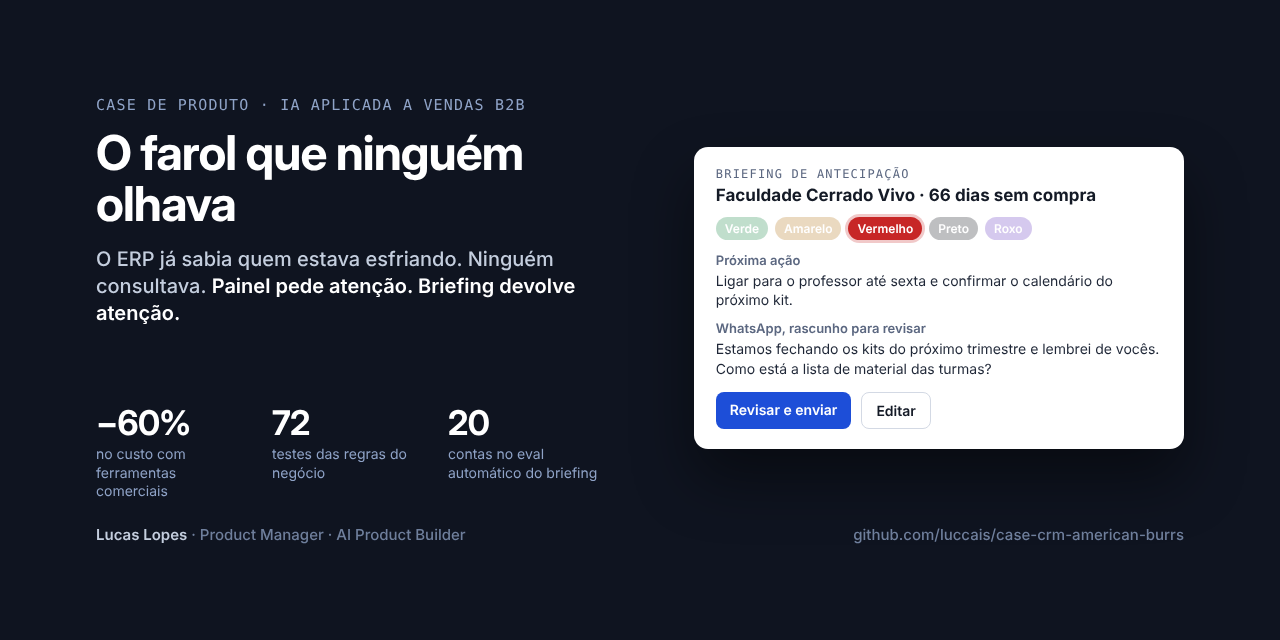
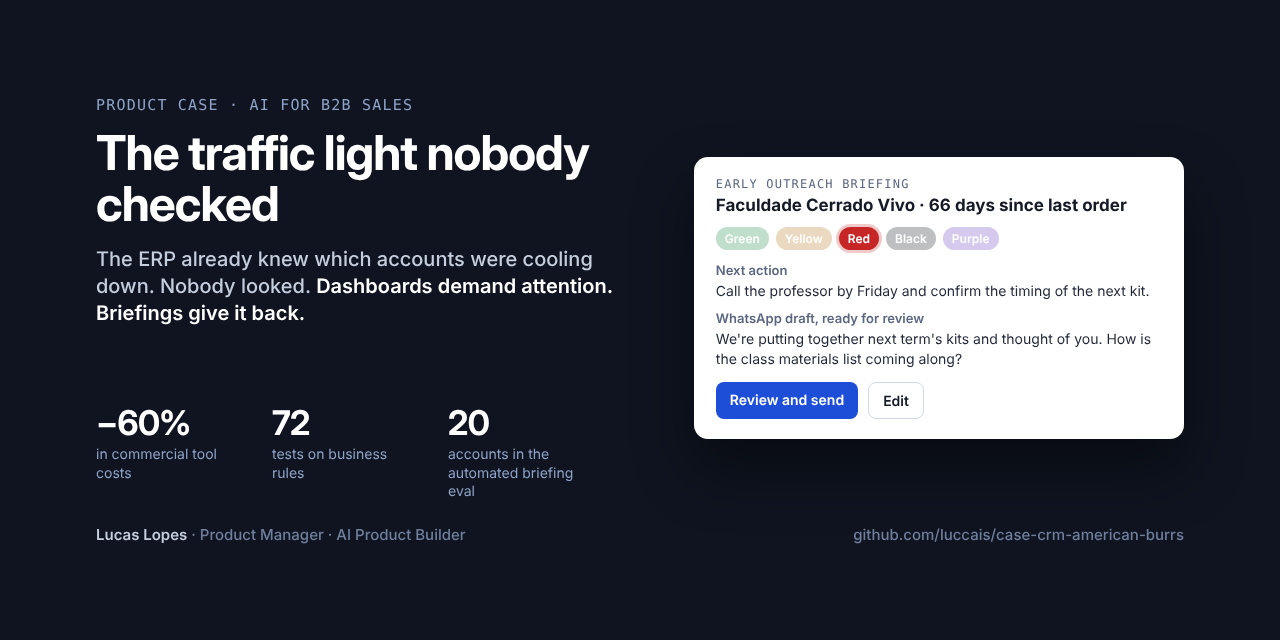
docs: capa em inglês para a prévia social
Claude-Session: https://claude.ai/code/session_013pWEh4TcHNrPo1i61WNHBM

diff --git a/docs/img/fonte/capa.html b/docs/img/fonte/capa.html
@@ -1,4 +1,4 @@
-<!doctype html><html><head><meta charset="utf-8"><style>
+<!doctype html><html lang="en"><head><meta charset="utf-8"><style>
 *{margin:0;padding:0;box-sizing:border-box}
 body{width:1280px;height:640px;font-family:Inter,sans-serif;background:#0f1420;color:#e8ecf3;overflow:hidden;position:relative}
 .wrap{position:absolute;inset:0;padding:96px 96px 140px;gap:44px;display:flex;gap:56px}
@@ -26,23 +26,23 @@ h1{font:700 48px/1.06 'Inter Display',Inter;letter-spacing:-.02em;margin-top:14p
 .foot b{color:#c4cede;font-weight:600}
 </style></head><body><div class="wrap">
 <div class="l">
-<div class="tag">Case de produto · IA aplicada a vendas B2B</div>
-<h1>O farol que ninguém olhava</h1>
-<div class="tese">O ERP já sabia quem estava esfriando. Ninguém consultava. <b>Painel pede atenção. Briefing devolve atenção.</b></div>
+<div class="tag">Product case · AI for B2B sales</div>
+<h1>The traffic light nobody checked</h1>
+<div class="tese">The ERP already knew which accounts were cooling down. Nobody looked. <b>Dashboards demand attention. Briefings give it back.</b></div>
 <div class="stats">
-<div><div class="n">−60%</div><div class="k">no custo com ferramentas comerciais</div></div>
-<div><div class="n">72</div><div class="k">testes das regras do negócio</div></div>
-<div><div class="n">20</div><div class="k">contas no eval automático do briefing</div></div>
+<div><div class="n">−60%</div><div class="k">in commercial tool costs</div></div>
+<div><div class="n">72</div><div class="k">tests on business rules</div></div>
+<div><div class="n">20</div><div class="k">accounts in the automated briefing eval</div></div>
 </div></div>
 <div class="r"><div class="card">
-<div class="ct">BRIEFING DE ANTECIPAÇÃO</div>
-<div class="cn">Faculdade Cerrado Vivo · 66 dias sem compra</div>
-<div class="row"><span class="p" style="background:#1f8a4c">Verde</span><span class="p" style="background:#b7791f">Amarelo</span><span class="p on" style="background:#c72626">Vermelho</span><span class="p" style="background:#1a1d24">Preto</span><span class="p" style="background:#6d3fc4">Roxo</span></div>
-<div class="lbl">Próxima ação</div>
-<div class="txt">Ligar para o professor até sexta e confirmar o calendário do próximo kit.</div>
-<div class="lbl">WhatsApp, rascunho para revisar</div>
-<div class="txt">Estamos fechando os kits do próximo trimestre e lembrei de vocês. Como está a lista de material das turmas?</div>
-<div class="bt"><span class="b1">Revisar e enviar</span><span class="b2">Editar</span></div>
+<div class="ct">EARLY OUTREACH BRIEFING</div>
+<div class="cn">Faculdade Cerrado Vivo · 66 days since last order</div>
+<div class="row"><span class="p" style="background:#1f8a4c">Green</span><span class="p" style="background:#b7791f">Yellow</span><span class="p on" style="background:#c72626">Red</span><span class="p" style="background:#1a1d24">Black</span><span class="p" style="background:#6d3fc4">Purple</span></div>
+<div class="lbl">Next action</div>
+<div class="txt">Call the professor by Friday and confirm the timing of the next kit.</div>
+<div class="lbl">WhatsApp draft, ready for review</div>
+<div class="txt">We're putting together next term's kits and thought of you. How is the class materials list coming along?</div>
+<div class="bt"><span class="b1">Review and send</span><span class="b2">Edit</span></div>
 </div></div></div>
 <div class="foot"><span><b>Lucas Lopes</b> · Product Manager · AI Product Builder</span><span>github.com/luccais/case-crm-american-burrs</span></div>
 </body></html>

diff --git a/README.md b/README.md
@@ -1,6 +1,6 @@
 # Farol de Clientes + CRM de Kits
 
-![O farol que ninguém olhava: case de produto de IA aplicada a vendas B2B](docs/img/capa.png)
+![The traffic light nobody checked: product case on AI for B2B sales](docs/img/capa.png)
 
 > **Reconstrução para portfólio.** O sistema original rodou em produção na American Burrs
 > (indústria odontológica, vendas B2B para o meio acadêmico). Este repositório **não contém
